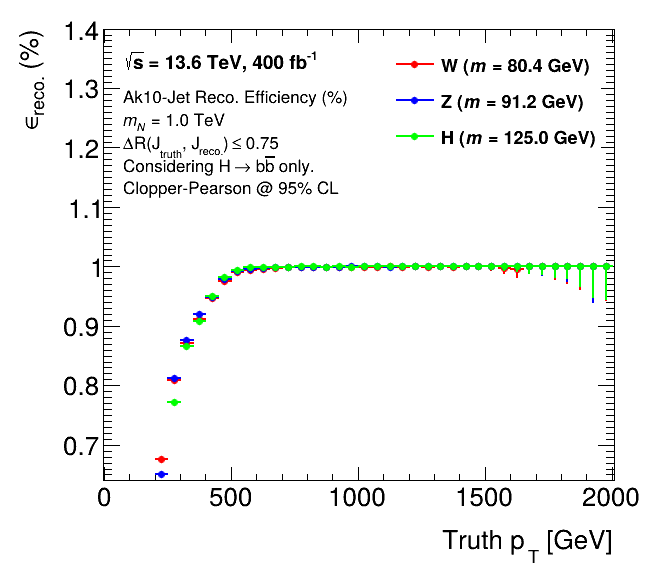
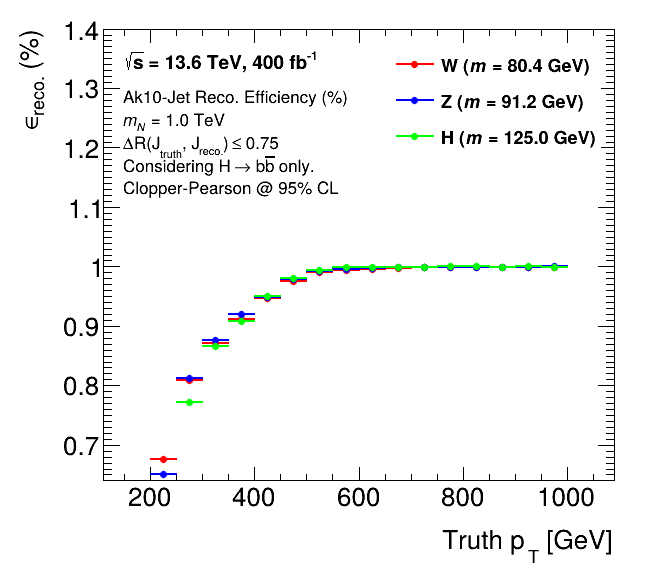
Update fatjet reconstruction scripts and results; enable overwriting results, adjust binning, and improve plotting

diff --git a/fatjet_reconstruction_rate_v6.py b/fatjet_reconstruction_rate_v6.py
@@ -19,7 +19,7 @@ print("Using ROOT version:", ROOT.__version__)
 print("Using Delphes libraries found at:", DELPHES_PATH)
 
 debug = 0
-overwrite_results = False
+overwrite_results = True
 max_entries = None
 results_file = "fatjet_reconstruction_efficiency_results.root"
 histograms_file = "fatjet_histograms_results.root"
@@ -237,8 +237,8 @@ def fatjet_efficiency_advanced(inputRootFile, run_parallel=False, n_chunks=None,
 def calc_and_plot(tree, verbose=False):
 
     os.makedirs("./plots", exist_ok=True)
-    pt_bin_width = 50
-    pt_bins = list(range(200, 2000 + pt_bin_width, pt_bin_width))
+    pt_bin_width = 20
+    pt_bins = list(range(200, 1000 + pt_bin_width, pt_bin_width))
     n_pt_bins = len(pt_bins) - 1
     pt_bins_arr = array.array('d', pt_bins)
 
@@ -304,7 +304,7 @@ def calc_and_plot(tree, verbose=False):
 
         if first:
             eff_hist.SetTitle("Reconstruction efficiency; Truth p_{T} [GeV]; #epsilon_{reco.} (%)")
-            eff_hist.Draw("AP")
+            eff_hist.Draw("e1")
             ROOT.gPad.Update()
             eff_hist.GetPaintedGraph().SetMaximum(1.4)
             eff_hist.GetPaintedGraph().GetXaxis().SetRangeUser(0, 2000)
@@ -312,7 +312,7 @@ def calc_and_plot(tree, verbose=False):
             eff_hist.GetPaintedGraph().GetYaxis().SetNdivisions(1010, True)
             first = False
         else:
-            eff_hist.Draw("same P")
+            eff_hist.Draw("same e1")
 
     label = ROOT.TLatex()
     label.SetNDC()
@@ -421,15 +421,33 @@ def calc_and_plot(tree, verbose=False):
     f_out.Close()
     print(f"Saved histograms -> {histograms_file}")
 
-def main(inputRootFile, rp=True):
+def main():
+    import argparse
+    parser = argparse.ArgumentParser(
+        description="Compute fatjet reconstruction efficiency from Delphes ROOT files."
+    )
+    parser.add_argument(
+        "inputRootFiles",
+        nargs="+",
+        help="One or more Delphes ROOT files (space-separated), e.g. f1.root f2.root f3.root",
+    )
+    parser.add_argument(
+        "--no-parallel",
+        action="store_true",
+        help="Disable parallel processing over entry ranges.",
+    )
+    args = parser.parse_args()
+
+    inputRootFiles = args.inputRootFiles
+    rp = not args.no_parallel
+
     if not overwrite_results and os.path.exists(results_file):
         f_in = ROOT.TFile.Open(results_file)
         tree = f_in.Get("results")
         tree._file = f_in
     else:
-        tree = fatjet_efficiency_advanced(inputRootFile, run_parallel=rp)
+        tree = fatjet_efficiency_advanced(inputRootFiles, run_parallel=rp)
     calc_and_plot(tree)
 
 if __name__ == "__main__":
-    files = [f"/data/ammelsayed/Framework/Samples/signal/FDM/Events/sig{m}/tag_1_delphes_events.root" for m in range(1000, 1000 + 50, 50)]
-    main(files)
+    main()
